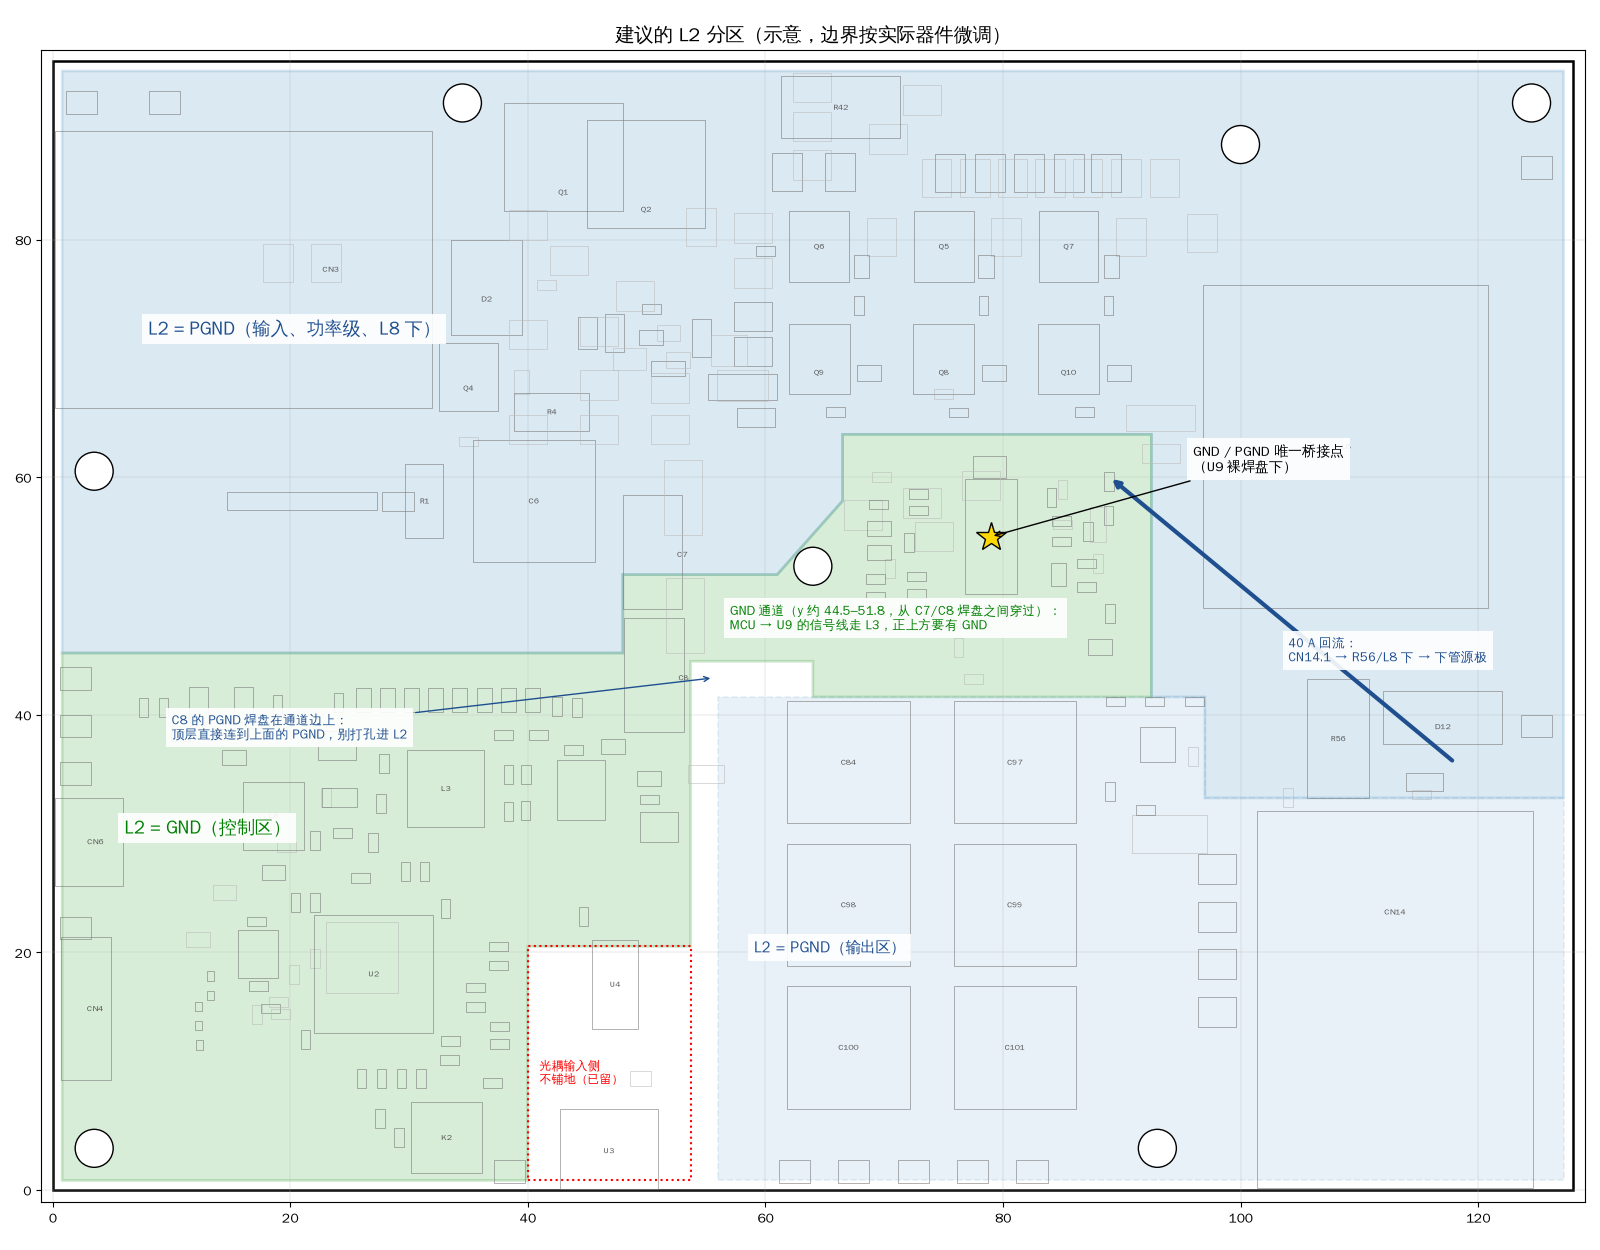
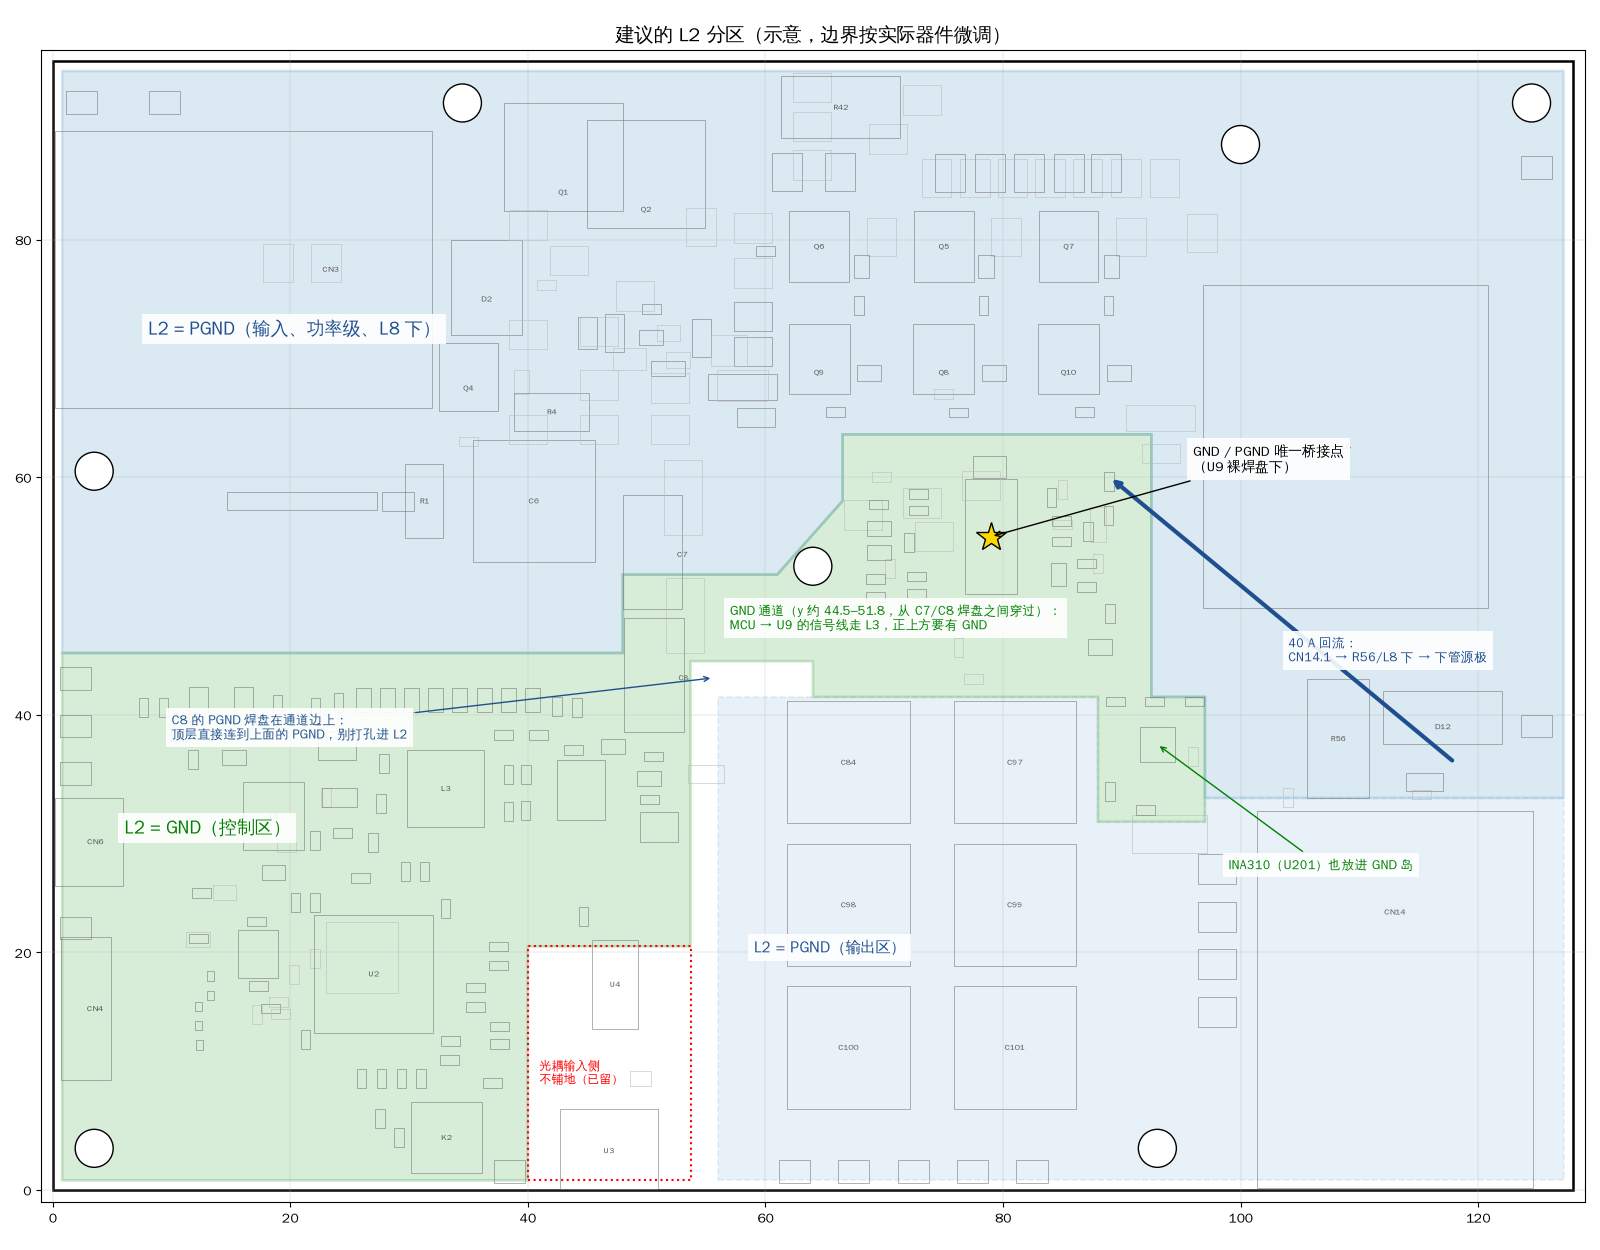
复核：全面复核（Q1/Q2 重叠、D3、VCC_BAT 通道、开尔文线、LT3763 手册逐项）
Claude-Session: https://claude.ai/code/session_01T5e27bco3eB8cP9fAY52gn

Changed region(s): [[0.6875, 0.5304, 0.7812, 0.6864], [0.7812, 0.6864, 0.875, 0.7176]]

diff --git a/docs/仿真/布线演算/ann31.py b/docs/仿真/布线演算/ann31.py
@@ -1,0 +1,42 @@
+import json, matplotlib, logging; matplotlib.use('Agg')
+import matplotlib.pyplot as plt
+from matplotlib.patches import Rectangle, Circle, Polygon
+logging.getLogger('matplotlib.font_manager').setLevel(logging.ERROR)
+plt.rcParams['font.sans-serif']=['WenQuanYi Zen Hei','DejaVu Sans']
+C=json.load(open('lay31.json')); D={c['r']:c for c in C}
+col={'LT_VIN':'#d62728','DCBUS':'#ff9896','LT_SW':'#ff9900','PGND':'#1f77b4','GND':'#2ca02c','LT_SHUNT_P':'#9467bd','VCC_OUT':'#8c564b','VCC_BAT':'#e6550d','GND_BAT':'#636363'}
+bb=dict(fc='white',ec='none',alpha=0.9)
+fig,axs=plt.subplots(1,2,figsize=(24,11.5),gridspec_kw=dict(width_ratios=[1,1.35]))
+def draw(ax,x0,x1,y0,y1,side=0):
+    ax.add_patch(Rectangle((0,0),128,95,fill=False,ec='k',lw=1.5))
+    for c in C:
+        if not(x0-12<c['x']<x1+12 and y0-12<c['y']<y1+12): continue
+        mine=c['b']==side; bx,by,bw,bh=c['bb']
+        ax.add_patch(Rectangle((bx,by),bw,bh,fill=False,ec='k' if mine else '#dddddd',lw=0.6 if mine else 0.3,zorder=2))
+        for p in c['p']:
+            if not mine and not p[6]: continue
+            ax.add_patch(Rectangle((p[0],p[1]),p[2],p[3],fc=col.get(p[4],'#aaaaaa'),ec='k',lw=0.2,alpha=0.8 if mine else 0.3,zorder=3))
+        if mine and x0<c['x']<x1 and y0<c['y']<y1: ax.text(c['x'],c['y'],c['r'],fontsize=7,ha='center',va='center',fontweight='bold',zorder=6)
+    ax.set_xlim(x0,x1); ax.set_ylim(y0,y1); ax.set_aspect('equal'); ax.grid(True,lw=0.25)
+A,B=axs
+draw(A,14,66,52,96); A.set_title('输入区（顶层）',fontsize=14)
+q1,q2=D['Q1']['bb'],D['Q2']['bb']
+A.add_patch(Rectangle((q2[0],q1[1]),q1[0]+q1[2]-q2[0],q2[1]+q2[3]-q1[1],fc='red',alpha=0.35,ec='red',lw=2.5,zorder=8))
+A.add_patch(Rectangle((53.879-5,84-1.6),10,9.1,fill=False,ec='green',ls='--',lw=2.2,zorder=8))
+A.annotate('① Q1、Q2 本体叠了约 3 × 7.7 mm（散热片同网络，DRC 不报）\n   Q2 放回 (53.879, 84.0)（绿虚线），已核对不碰别的件',(46.5,86),(15.5,94.2),fontsize=10,color='red',bbox=bb,arrowprops=dict(arrowstyle='->',color='red'),zorder=10)
+A.add_patch(Rectangle((27.7,57.0),3.7,1.9,fill=False,ec='red',lw=2.5,zorder=8))
+A.add_patch(Rectangle((31.4,63.4),4.5,1.6,fill=False,ec='green',ls='--',lw=2,zorder=8))
+A.annotate('② D3 压在 R1 本体下面\n   挪到绿框（约 (33.6, 64.2)，阴极靠 Q4 第 4 脚）',(29.6,57.9),(15.5,53.2),fontsize=10,color='red',bbox=bb,arrowprops=dict(arrowstyle='->',color='red'),zorder=10)
+A.add_patch(Rectangle((33,74.5),25,2.4,fc='#e6550d',alpha=0.25,ec='#e6550d',ls='--',lw=1.8,zorder=4))
+A.add_patch(Rectangle((32.2,81.3),26,2.4,fc='#e6550d',alpha=0.18,ec='#e6550d',ls='--',lw=1.5,zorder=4))
+A.annotate('③ 电池正极（约 31 A）到 Q1/Q2 源极脚：\n   栅极脚挡在中间，上下各只有约 2.4 mm；底层被 C9–C19 占满\n   → 栅极网络（D1、C1、R6、R7、Q3、C5）下移 2–3 mm，\n      栅极脚打孔到底层（R8 已在底层），两条带都铺 VCC_BAT',(45,75.5),(15.5,62.5),fontsize=9.5,color='#a33a00',bbox=bb,arrowprops=dict(arrowstyle='->',color='#a33a00'),zorder=10)
+draw(B,54,126,28,96); B.set_title('开尔文检测线（顶层，示意）',fontsize=14)
+def kel(ax,pts,c,lab=None,xy=None):
+    xs=[p[0] for p in pts]; ys=[p[1] for p in pts]; ax.plot(xs,ys,color=c,lw=2.4,ls='-',zorder=9)
+for pts in [[(69.2,88.4),(64.5,80),(59,62),(66,54),(68.6,53.7)],[(72.4,88.4),(72.6,86),(70.6,80.5),(63,64),(68,56),(70.4,55.7)]]:
+    kel(B,pts,'#d62728')
+for pts in [[(106,40.8),(100,46),(90,52.8),(87.8,52.8)],[(106,35.1),(99,44),(90,50.8),(87.8,50.8)],[(107,40.8),(96,38.5),(94.5,38.2)],[(107,35.1),(96,37.6),(94.5,37.5)]]:
+    kel(B,pts,'#6a3d9a')
+B.text(56,90.5,'④ 开尔文线：从采样电阻焊盘内侧单独引出，走 L3，成对、不接任何铺铜\n   1 mm 宽 6 mm 的 2 oz 铜约 0.04 mΩ，40 A 时 1.6 mV ≈ 满量程 48 mV 的 3.4%',fontsize=10,color='#4a1486',bbox=bb,zorder=10)
+B.text(56,30,'红：R42 → R43 / R44（IVINP / IVINN）约 35 mm；紫：R56 → R66 / R69（SENSE±）约 30 mm、→ U201 第 7、8 脚约 15 mm',fontsize=9.5,bbox=bb,zorder=10)
+plt.tight_layout(); plt.savefig('/home/user/hengliu/docs/仿真/布线演算/全面复核_20261028.png',dpi=100)

diff --git a/docs/仿真/布线演算/zone31.py b/docs/仿真/布线演算/zone31.py
@@ -1,0 +1,36 @@
+import json, matplotlib, logging; matplotlib.use('Agg')
+import matplotlib.pyplot as plt
+from matplotlib.patches import Rectangle, Circle, Polygon
+logging.getLogger('matplotlib.font_manager').setLevel(logging.ERROR)
+plt.rcParams['font.sans-serif']=['WenQuanYi Zen Hei','DejaVu Sans']
+C=json.load(open('lay31.json'))
+fig,ax=plt.subplots(figsize=(16,12.5))
+ax.add_patch(Rectangle((0,0),128,95,fill=False,ec='k',lw=1.8))
+for c in C:
+    bx,by,bw,bh=c['bb']
+    ax.add_patch(Rectangle((bx,by),bw,bh,fill=False,ec='#bbbbbb' if c['b'] else '#777777',lw=0.4,zorder=3))
+    if bw*bh>20 and not c['b']: ax.text(c['x'],c['y'],c['r'],fontsize=6,ha='center',va='center',color='#555',zorder=4)
+for h in [[3.5,3.5],[93,3.5],[3.5,60.5],[124.5,91.5],[34.5,91.5],[64,52.5],[100,88]]: ax.add_patch(Circle(h,1.6,fc='w',ec='k',zorder=5))
+bb=dict(fc='white',ec='none',alpha=0.9)
+# L2 GND: control + corridor + U9 island
+gnd=Polygon([(0.8,0.8),(40,0.8),(40,20.5),(53.7,20.5),(53.7,44.5),(64,44.5),(64,41.5),(88,41.5),(88,31),(97,31),(97,41.5),(92.5,41.5),(92.5,63.6),(66.5,63.6),(66.5,58),(61,51.8),(48,51.8),(48,45.2),(0.8,45.2)],closed=True,fc='#2ca02c',alpha=0.18,ec='green',lw=2,zorder=1)
+ax.add_patch(gnd)
+pg=Polygon([(0.8,45.2),(48,45.2),(48,51.8),(61,51.8),(66.5,58),(66.5,63.6),(92.5,63.6),(92.5,41.5),(97,41.5),(97,33),(127.2,33),(127.2,94.2),(0.8,94.2)],closed=True,fc='#1f77b4',alpha=0.16,ec='#1f77b4',lw=2,zorder=1)
+ax.add_patch(pg)
+pg2=Polygon([(56,0.8),(127.2,0.8),(127.2,33),(97,33),(97,31),(88,31),(88,41.5),(56,41.5)],closed=True,fc='#1f77b4',alpha=0.10,ec='#1f77b4',lw=1.2,ls='--',zorder=1)
+ax.add_patch(pg2)
+ax.add_patch(Rectangle((40,0.8),13.7,19.7,fc='none',ec='red',ls=':',lw=1.5,zorder=2))
+ax.text(41,9,'光耦输入侧\n不铺地（已留）',fontsize=8.5,color='red',bbox=bb,zorder=6)
+ax.plot([79],[55],marker='*',ms=22,color='gold',mec='k',zorder=7)
+ax.annotate('GND / PGND 唯一桥接点\n（U9 裸焊盘下）',(79,55),(96,60.5),fontsize=10,bbox=bb,arrowprops=dict(arrowstyle='->'),zorder=8)
+ax.text(6,30,'L2 = GND（控制区）',fontsize=13,color='green',bbox=bb,zorder=6)
+ax.text(57,47.2,'GND 通道（y 约 44.5–51.8，从 C7/C8 焊盘之间穿过）：\nMCU → U9 的信号线走 L3，正上方要有 GND',fontsize=9,color='green',bbox=bb,zorder=6)
+ax.text(8,72,'L2 = PGND（输入、功率级、L8 下）',fontsize=13,color='#1f4f8f',bbox=bb,zorder=6)
+ax.text(59,20,'L2 = PGND（输出区）',fontsize=11,color='#1f4f8f',bbox=bb,zorder=6)
+ax.annotate('',(89,60),(118,36),arrowprops=dict(arrowstyle='->',lw=3,color='#1f4f8f'),zorder=6)
+ax.text(104,44.5,'40 A 回流：\nCN14.1 → R56/L8 下 → 下管源极',fontsize=9,color='#1f4f8f',bbox=bb,zorder=6)
+ax.set_xlim(-1,129); ax.set_ylim(-1,96); ax.set_aspect('equal'); ax.grid(True,lw=0.2)
+ax.annotate('C8 的 PGND 焊盘在通道边上：\n顶层直接连到上面的 PGND，别打孔进 L2',(55.6,43.1),(10,38),fontsize=9,color='#1f4f8f',bbox=bb,arrowprops=dict(arrowstyle='->',color='#1f4f8f'),zorder=8)
+ax.annotate('INA310（U201）也放进 GND 岛',(93,37.5),(99,27),fontsize=9,color='green',bbox=bb,arrowprops=dict(arrowstyle='->',color='green'),zorder=8)
+ax.set_title('建议的 L2 分区（示意，边界按实际器件微调）',fontsize=14)
+plt.tight_layout(); plt.savefig('/home/user/hengliu/docs/仿真/布线演算/L2分区建议_20261028.png',dpi=100)

diff --git a/docs/原理图与PCB复核_2026-10-27.md b/docs/原理图与PCB复核_2026-10-27.md
@@ -337,3 +337,55 @@ Codex 做了五轮只读核查（对照嘉立创原生全局焊盘、DC1831A 官
 
 ### 16.4 本环境没法验证的
 - 嘉立创 DRC、3D 干涉、散热器实物；铜皮温升只按 IPC 公式。
+
+## 17. 全面复核（2026-10-28，同一工程 `0d1c9cb6a06f`，按数据手册逐项）
+
+图：`docs/仿真/布线演算/全面复核_20261028.png`（`ann31.py`）、更新后的 `L2分区建议_20261028.png`（`zone31.py`）。
+这次用工程自带的封装库重算全部 270 个器件（第 16 节漏了 5 个指示灯，因为它们换了新封装），并加了“本体重叠”检查。
+
+### 17.1 必须改（器件叠在一起）
+1. **Q1、Q2（SUM110P08，TO-263）本体重叠约 3.0 × 7.7 mm**：Q2 在 10-28 第一版从 (53.879, 84.0) 挪到了 (49.954, 82.55)。两个散热片焊盘同为 DCBUS，DRC 不报。
+   放回 (53.879, 84.0)：已核对和其他器件不碰，散热片离 R42 的 DCBUS 焊盘约 1.1 mm（同网络，DCBUS 路径反而更短），离 C113 的 PGND 焊盘约 1.4 mm。
+2. **D3（BZT52C12，Q4 栅极稳压管）压在 R1（2512）本体下面**：D3 阴极焊盘在 R1 两焊盘之间，本体重叠约 0.75 × 1.6 mm。
+   建议挪到 (33.6, 64.2)、180°：已核对不碰，阴极离 Q4 第 4 脚约 1 mm，阳极就近接 Q4 源极（PGND）。
+3. 小：CN9（测试点）和 CN4（GH1.25 座）本体边缘重叠约 0.17 mm，挪 0.3 mm 即可。
+
+### 17.2 布线不方便、建议改
+4. **电池正极（VCC_BAT，最大约 31 A）到 Q1 / Q2 源极脚**：TO-263 的栅极脚在源极脚左边，正好挡在 CN3 和源极脚之间。
+   电流只能从栅极脚下面（y 74.5–77，被 D1 / C1 / R6 挡住）或上面（y 81–84，散热片下沿）绕过，各约 2.4 mm；底层被 C9–C19 占满。
+   按 IPC-2221 外层 2 oz、温升 40 °C，31 A 要约 7 mm（计算）。改法：栅极网络（D1、C1、R6、R7、Q3、C5）整体下移 2–3 mm，
+   栅极脚就近打孔到底层（R8 已在底层），上下两条带都铺 VCC_BAT，合起来 ≥ 6 mm。
+5. **开尔文线（影响电流精度）**：R42 → R43 / R44 约 35 mm，R56 → R66 / R69 约 30 mm，R56 → U201 第 7、8 脚约 15 mm。
+   这些线的网络就是 DCBUS / LT_VIN / LT_SHUNT_P / VCC_OUT，嘉立创铺铜会把它们和大电流铜皮连成一片，检测点就不在电阻焊盘上了。
+   2 oz 铜方阻约 0.25 mΩ，1 mm 长、6 mm 宽约 0.04 mΩ，40 A 时 1.6 mV，约为满量程 48 mV 的 3.4%（计算）。
+   做法：从电阻焊盘内侧单独引出，打孔到 L3 成对走；L3 上这几个网络不铺铜；外层引出段用禁止铺铜区隔开。
+6. **L2 分区更正**：INA310（U201）及 C201 / R201 / R202 / R209 / C204 也要在 GND 岛里（约 x 88–97、y 31–41.5，和 U9 岛连通），第 16 节的图已更新。
+
+### 17.3 LT3763 数据手册逐项（第 21–22 页“Board Layout”和引脚说明）
+| 要求 | 现状 | 结论 |
+|---|---|---|
+| 输入电容紧靠上管，输入电容—上管—下管回路最小 | 顶层电容 VIN 焊盘离漏极脚 0.36–0.47 mm；回路经 L2 PGND 闭合，约 0.2 nH（计算） | 满足（L2 要铺 PGND） |
+| VIN 脚 4.7 µF 紧靠 VIN 和裸焊盘 | C64 4.7 µF，底层，离第 3 脚约 1.5 mm | 满足 |
+| INTVCC ≥ 22 µF、ESR < 50 mΩ、紧靠裸焊盘 | C91 / C92 / C93 3 × 47 µF（1.7 / 3.6 / 6.7 mm），C81 1 µF、C82 100 nF | 满足 |
+| CBOOST 50–220 nF（大栅荷用 220 nF） | C79 220 nF / 25 V，2.3 mm；D10 2.6 mm | 满足 |
+| SENSE 10 Ω + 10 Ω + 33 nF，采样电阻尽量靠近 SENSE 脚 | 滤波在 U9 旁（2.9–4.4 mm），R56 离 U9 约 30 mm | 基本满足，靠开尔文走线保证（第 5 条） |
+| VREF ≥ 1 µF | C83 2.2 µF，离第 5 脚 5.7 mm、第 10 脚 3.2 mm | 满足 |
+| FAULT 上拉 > 10k | R24 22k 上拉到 3.3 V，约 55 mm 长线到 MCU | 满足；长线走 L3、下面有 GND |
+| IVINMON 容性负载 < 1 nF | 只接 R45 和测试点 | 满足 |
+| SS / RT / VC / CTRL1 / CTRL2 / EN 外围 | 1.8–6.3 mm | 满足 |
+| 开关元件下有完整地平面 | 待画（L2 PGND） | 布线时做 |
+
+### 17.4 其他芯片去耦（按各自手册“尽量靠近”）
+- STM32 每个 VDD 1.1–2.0 mm，VDDA 2.3–2.9 mm；TLP2761 1.4 mm；INA310 1.0 mm；LM5164 输入 2.1 / 3.2 mm；JW5026 输入 3.3 mm（可再近）；XC6210 / LP5907 1.6–2.2 mm。都可以。
+
+### 17.5 栅极驱动距离（可接受，布线时注意）
+- TG：U9 第 25 脚到 R48 / R47 / R49 约 22–25 mm；BG：第 1 脚到 R59 / R57 / R61 约 10–18 mm。U9 已经是脚朝功率级，挪不近。
+- 估算（推断）：成对走线约 0.3–0.5 nH/mm，TG 回路约 7–12 nH；驱动回路电阻约 3 Ω，L/R 约 3 ns，比开关沿 20–30 ns 小，影响不大。
+- 要求：TG 和一根专用 SW 回线成对走回 U9 第 26 脚（不要借大 SW 铜皮当回线）；BG 和 PGND 成对；横向分到三列走 L3（L2 PGND 在上面）。
+
+### 17.6 可选优化
+- D11（SS510，SW–PGND）只在第 1 列左边，离第 3 列约 21 mm；死区时间里第 2、3 列主要靠体二极管。可以不改；要改就在第 3 列旁再放一只（需改原理图）。
+- 上管散热孔：焊盘内按 0.6–0.65 mm 间距约 40 个，焊盘右侧 VIN 铜（x 66.8–72.7、y 79.4–83，避开 R48）还能补约 25 个，合计约 65 个，接近第 12 节算的约 66 个；焊盘内孔要塞孔镀平。
+
+### 17.7 本环境没法验证的
+- 嘉立创 DRC、3D、散热器；嘉立创铺铜实际怎样合并开尔文线，要在工具里看。

diff --git a/docs/项目记忆.md b/docs/项目记忆.md
@@ -714,6 +714,10 @@
 - **功率级重叠修正版（2026-10-28，复核文件第 16 节，工程指纹 `0d1c9cb6a06f`）：可以开始布线。** 两处重叠已改，功率区无重叠；原理图与 PCB 连接逐脚一致（差异只是 MOS 合并引脚号写法和 CN6 固定脚）。
   功率区还没有走线；控制区已部分布线并铺 GND。**布线前先画 L2 分区**（图 `docs/仿真/布线演算/L2分区建议_20261028.png`）：PGND 在输入 / 功率级 / L8 / 输出区，
   GND 在控制区 + 通道（y 约 44.5–51.8，穿过 C7 / C8 焊盘之间）+ U9 周围，只在 U9 裸焊盘下桥接；C8 的 PGND 焊盘顶层连上去，不打孔进 L2。凸台和 3D 机械定版时重做。
+- **全面复核（2026-10-28，复核文件第 17 节，图 `docs/仿真/布线演算/全面复核_20261028.png`）**：第 16 节漏查了 5 个换了新封装的指示灯，补上并加本体重叠检查后发现：
+  必须改：**Q1 / Q2 本体重叠约 3 × 7.7 mm**（Q2 放回 (53.879, 84.0)）；**D3 压在 R1 本体下**（挪到 (33.6, 64.2)）。
+  建议：VCC_BAT 到 Q1 / Q2 源极只有上下各约 2.4 mm（31 A 要约 7 mm，栅极网络下移 2–3 mm）；开尔文线从焊盘内侧单独引出、走 L3、不接铺铜（1 mm 铜约 3.4% 误差）；INA310 放进 GND 岛。
+  LT3763 手册布局要求逐项满足；TG 22–25 mm、BG 10–18 mm 可接受（L/R 约 3 ns），TG 配专用 SW 回线成对走。
 - 仍开放：PGD 峰值关模块（10-26）。
 - 更正：**L8 CPCF3535-6R8M 高 34.2 mm**（之前 22.7 / 23 mm 是引脚间距）。
 

diff --git a/docs/对话记录/2026-10-28.md b/docs/对话记录/2026-10-28.md
@@ -11,3 +11,10 @@
 - 结论：可以开始布线。两处重叠已改好、功率区无重叠；原理图与 PCB 连接一致；功率区还没走线。布线前先画 L2 分区（PGND / GND 和 GND 通道），
   凸台和 3D 机械定版时重做；R56 与 CN14 同网焊盘相接，先焊 R56。
 - 产出：复核文件第 16 节、`docs/仿真/布线演算/L2分区建议_20261028.png`、`zone30.py`、`netcmp.py`，`docs/原理图版本.md` 登记。
+
+## 全面复核：问题、布线不便、数据手册、优化
+- 用户要求再仔细查一遍。
+- 结论：用工程自带封装库重算 270 个器件并加本体重叠检查，新发现 Q1 / Q2 本体重叠、D3 压在 R1 下（必须改）；
+  VCC_BAT 到 P 管源极太窄、开尔文线易被铺铜吞掉、INA310 要进 GND 岛（建议）；LT3763 布局要求逐项满足，栅极走线距离可接受。
+  第 16 节说“可以布线”是漏查，已在第 17 节更正。
+- 产出：复核文件第 17 节、`全面复核_20261028.png`、更新 `L2分区建议_20261028.png`、`ann31.py` / `zone31.py`。
